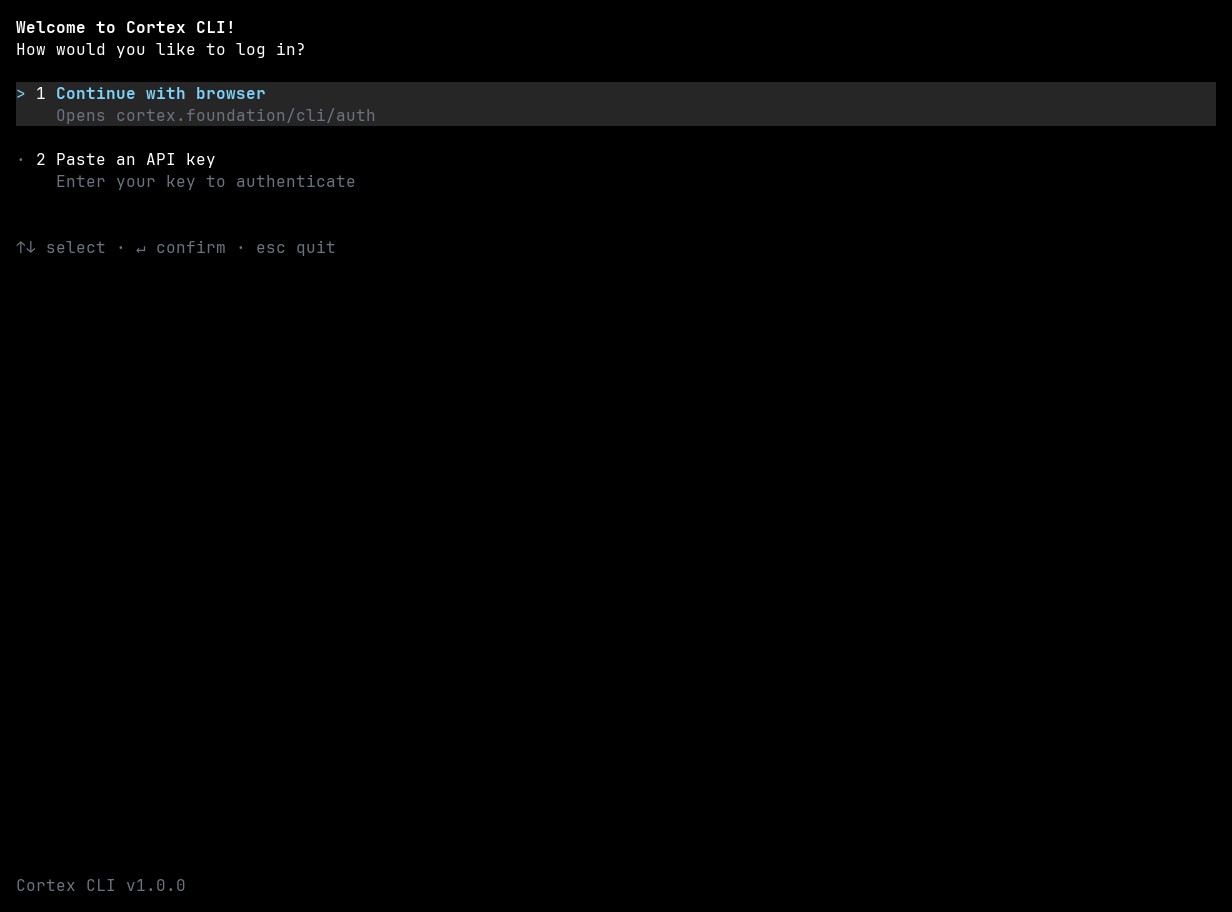
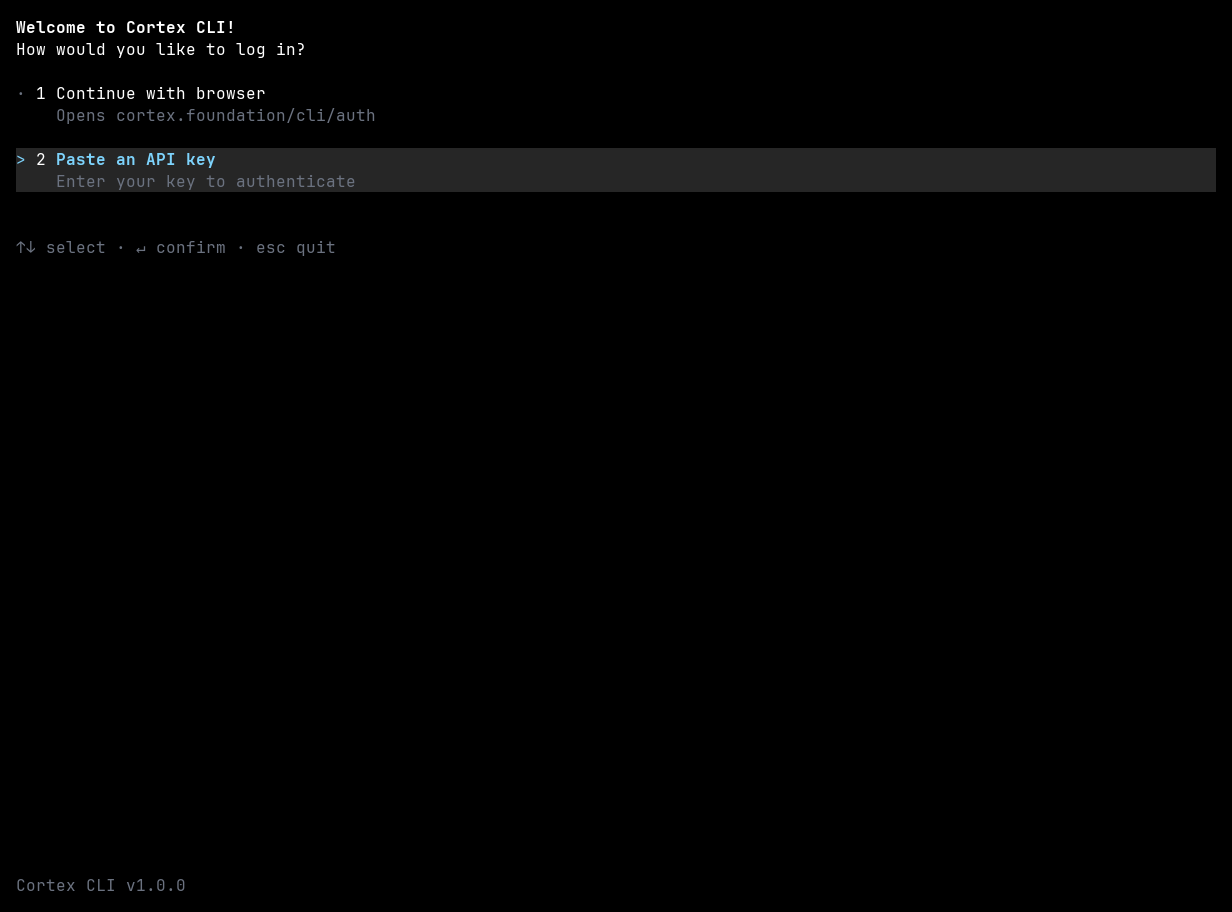
feat(tui): recapture login_select with option 2 focused so it differs from login

Changed region(s): [[0.0, 0.0921, 0.987, 0.2149]]

diff --git a/src/cortex-tui/src/lock_proof.rs b/src/cortex-tui/src/lock_proof.rs
@@ -177,9 +177,13 @@ fn render_lock_scene(id: &str, width: u16, height: u16) -> Result<LockFrame> {
             // through.
             frame.render_widget(Clear, area);
             match id {
-                // The sign-in picker is the real login screen, not a board.
-                "login" | "login_select" => {
-                    LoginScreen::lock_select(LOCK_SPLASH_VERSION, None).render(frame)
+                // The sign-in picker is the real login screen, not a board:
+                // `login` focuses option 1 (Continue with browser),
+                // `login_select` shows the selection moved to option 2
+                // (Paste an API key).
+                "login" => LoginScreen::lock_select(LOCK_SPLASH_VERSION, None).render(frame),
+                "login_select" => {
+                    LoginScreen::lock_select_option(LOCK_SPLASH_VERSION, None, 1).render(frame)
                 }
                 "login_waiting" => LoginScreen::lock_waiting(
                     LOCK_SPLASH_VERSION,
@@ -1392,13 +1396,13 @@ mod tests {
     #[test]
     fn distinct_states_render_distinct_frames() {
         // Only the documented aliases may capture the same board; every other
-        // state is its own frame at both sizes.
-        let aliases: [&[&str]; 5] = [
+        // state is its own frame at both sizes (`login` and `login_select`
+        // differ by the focused option).
+        let aliases: [&[&str]; 4] = [
             &["clear", "clear_confirm"],
             &["compact", "compacted"],
             &["grep", "tool_tiles"],
             &["interrupt", "stopped"],
-            &["login", "login_select"],
         ];
         for size in SIZES {
             let mut seen: std::collections::HashMap<String, &str> = Default::default();
@@ -1599,11 +1603,14 @@ mod tests {
 
     #[test]
     fn login_is_a_numbered_picker_with_live_sub_states() {
+        // `login_select` is the picker with the selection moved to option 2:
+        // the cyan `>` and the gray bar sit on `Paste an API key`, option 1
+        // falls back to the dim middot.
         let select = render_lock_scene("login_select", 120, 40).expect("select");
         assert!(select.plain.contains("Welcome to Cortex CLI!"));
         assert!(select.plain.contains("How would you like to log in?"));
-        assert!(select.plain.contains("> 1 Continue with browser"));
-        assert!(select.plain.contains("· 2 Paste an API key"));
+        assert!(select.plain.contains("· 1 Continue with browser"));
+        assert!(select.plain.contains("> 2 Paste an API key"));
         assert!(select.plain.contains("cortex.foundation/cli/auth"));
         assert!(select.plain.contains("↵ confirm"));
         assert!(!select.plain.contains("Guest"));
@@ -1612,12 +1619,40 @@ mod tests {
         assert_eq!(select.plain.matches("Continue with browser").count(), 1);
         assert_no_junk(&select.plain);
 
+        // `login` keeps option 1 focused, so the two captures differ only by
+        // where the caret and the bar sit.
+        let login = render_lock_scene("login", 120, 40).expect("login");
+        assert!(login.plain.contains("> 1 Continue with browser"));
+        assert!(login.plain.contains("· 2 Paste an API key"));
+        assert_ne!(login.plain, select.plain);
+        for (frame, focused) in [(&login, "1 Continue"), (&select, "2 Paste")] {
+            let buf = &frame.buffer;
+            let row = (0..40u16)
+                .find(|y| buf[(0, *y)].symbol() == ">")
+                .expect("focused row");
+            assert!(
+                row_text(buf, row).contains(focused),
+                "{focused}:\n{}",
+                frame.plain
+            );
+            assert_eq!(buf[(0, row)].style().fg, Some(ACCENT));
+            for x in 0..120u16 {
+                assert_eq!(buf[(x, row)].style().bg, Some(SELECTION_BG), "col {x}");
+                assert_eq!(buf[(x, row + 1)].style().bg, Some(SELECTION_BG), "col {x}");
+            }
+            let other = (0..40u16)
+                .find(|y| buf[(0, *y)].symbol() == "·")
+                .expect("unfocused row");
+            assert_eq!(buf[(4, other)].style().fg, Some(TEXT));
+            assert_eq!(buf[(4, other)].style().bg, Some(Color::Reset));
+        }
+
         let narrow = render_lock_scene("login_select", 40, 12).expect("narrow");
         for needle in [
             "Welcome to Cortex CLI!",
-            "> 1 Continue with browser",
+            "· 1 Continue with browser",
             "Opens cortex.foundation/cli/auth",
-            "· 2 Paste an API key",
+            "> 2 Paste an API key",
             "Enter your key to authenticate",
             "↑↓ select · ↵ confirm · esc quit",
         ] {

diff --git a/src/cortex-tui/src/runner/login_screen.rs b/src/cortex-tui/src/runner/login_screen.rs
@@ -143,12 +143,21 @@ impl LoginScreen {
         self
     }
 
-    /// Select-method screen with an optional product error under the radios.
+    /// Select-method screen with option 1 focused and an optional product
+    /// error under the options.
     pub fn lock_select(version: &str, error: Option<&str>) -> Self {
+        Self::lock_select_option(version, error, 0)
+    }
+
+    /// Select-method screen with the option at `selected` (0-based, clamped
+    /// to the available methods) focused — the `>` caret and the gray bar
+    /// move with it.
+    pub fn lock_select_option(version: &str, error: Option<&str>, selected: usize) -> Self {
         let mut screen =
             Self::new(PathBuf::from("/tmp/cortex-lock"), None).with_splash_version(version);
         screen.state = LoginState::SelectMethod;
         screen.error_message = error.map(str::to_string);
+        screen.selected_method = selected.min(LoginMethod::all().len() - 1);
         screen
     }
 
@@ -1019,6 +1028,33 @@ mod tests {
                 );
             }
         }
+    }
+
+    #[test]
+    fn lock_select_option_moves_the_caret_and_bar() {
+        for (selected, focused, other) in [
+            (0usize, "> 1 Continue with browser", "· 2 Paste an API key"),
+            (1, "> 2 Paste an API key", "· 1 Continue with browser"),
+            // Out-of-range indices clamp to the last option.
+            (7, "> 2 Paste an API key", "· 1 Continue with browser"),
+        ] {
+            let screen = LoginScreen::lock_select_option("1.0.0", None, selected);
+            let backend = TestBackend::new(80, 24);
+            let mut terminal = Terminal::new(backend).expect("test backend");
+            terminal.draw(|f| screen.render(f)).expect("draw");
+            let text = buffer_text(&terminal);
+            assert!(text.contains(focused), "{selected}:\n{text}");
+            assert!(text.contains(other), "{selected}:\n{text}");
+            let buf = terminal.backend().buffer();
+            let row = (0..24u16)
+                .find(|y| buf[(0, *y)].symbol() == ">")
+                .expect("focused row");
+            assert_eq!(buf[(0, row)].style().fg, Some(ACCENT));
+            assert_eq!(buf[(4, row)].style().bg, Some(SELECTION_BG));
+        }
+        // `lock_select` is option 1.
+        let screen = LoginScreen::lock_select("1.0.0", None);
+        assert_eq!(screen.selected_method, 0);
     }
 
     #[test]

diff --git a/docs/media/tui-lock/README.md b/docs/media/tui-lock/README.md
@@ -42,7 +42,7 @@ binary still reports the crate version.
 | `permissions.png` | `/permissions` approval policy picker |
 | `working.png` | Working spinner + elapsed / tokens |
 | `read.png` | Read tile — numbered excerpt |
-| `login_select.png` | Numbered sign-in picker, cyan `> 1` on the gray bar |
+| `login_select.png` | Sign-in picker with the selection moved to option 2 (`> 2 Paste an API key`) |
 | `login_waiting.png` | Loading / waiting for browser auth |
 | `login_success.png` | `✓ Signed in.` |
 | `login_error.png` | Product-facing error |
@@ -80,7 +80,7 @@ binary still reports the crate version.
 | `bash.png` | Bash mode |
 | `config.png` | `/config` tree |
 | `footer_max.png` | MAX footer after push |
-| `login.png` | Sign in — numbered options, descriptions under titles |
+| `login.png` | Sign in — numbered options, option 1 (`> 1 Continue with browser`) focused |
 | `thinking.png` | Thinking (muted gold) + reasoning |
 | `todos.png` | Working 1/5 checklist |
 | `question.png` | Clarifying question |
